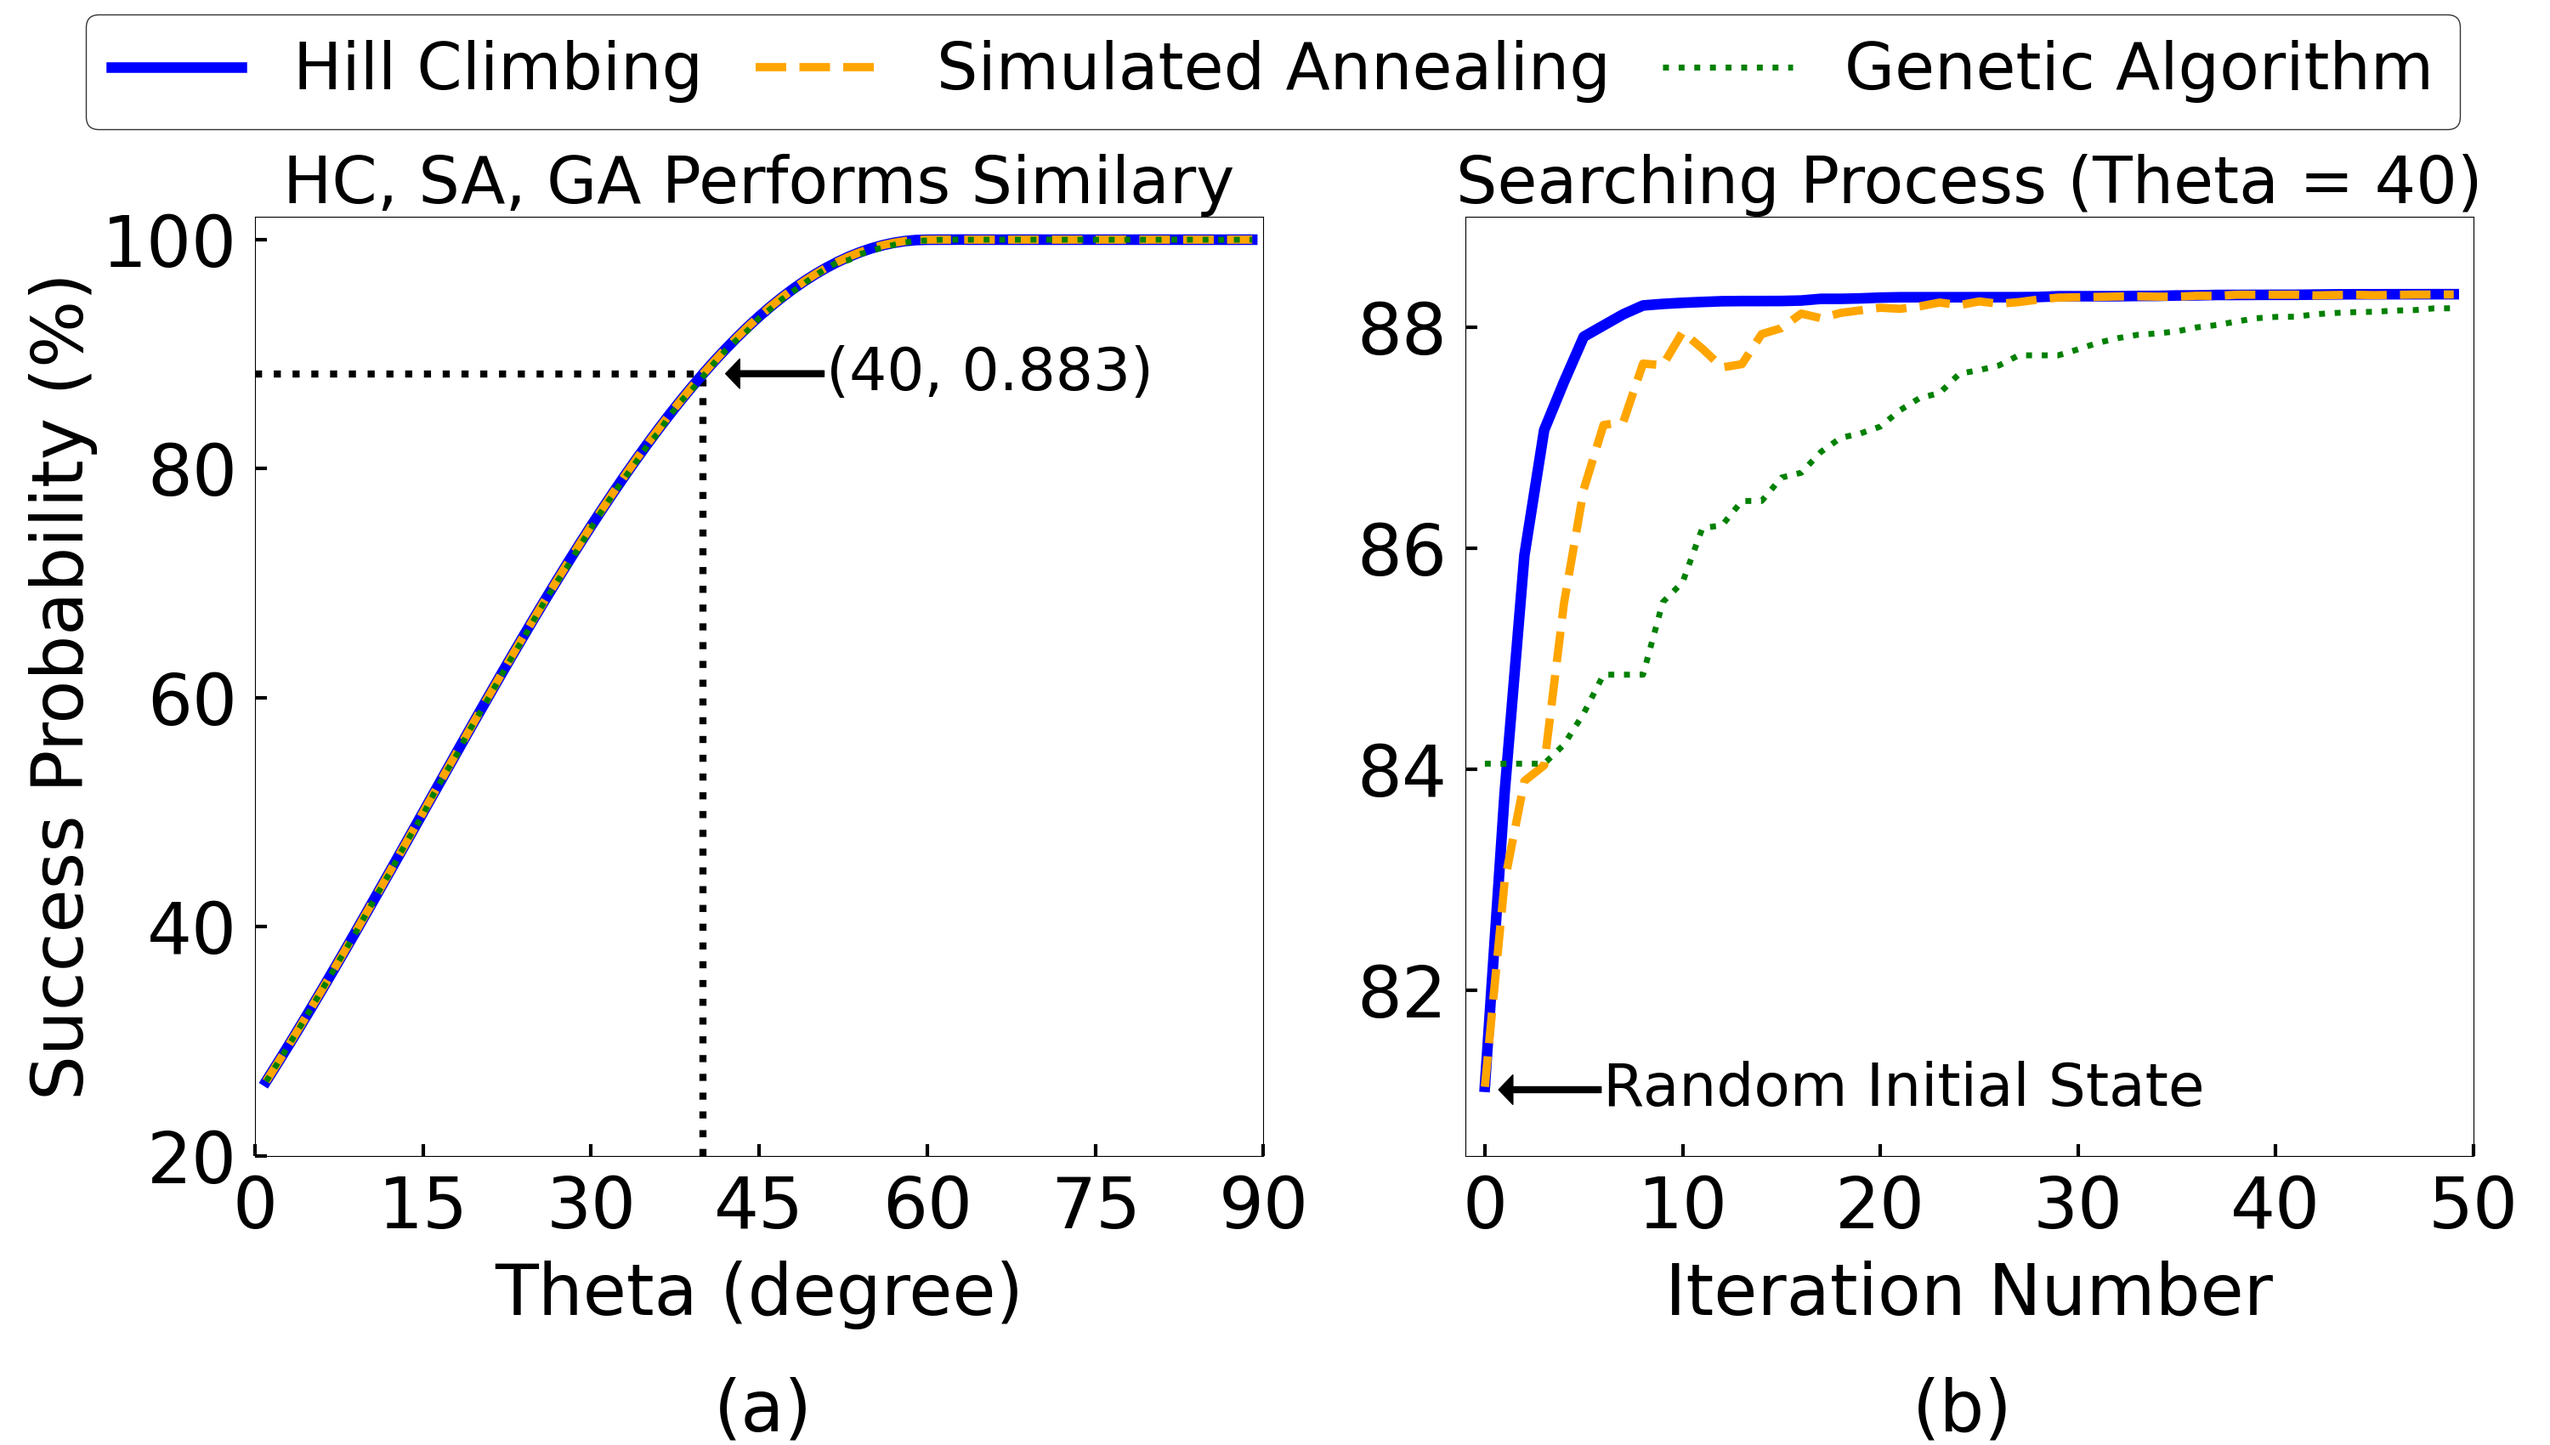
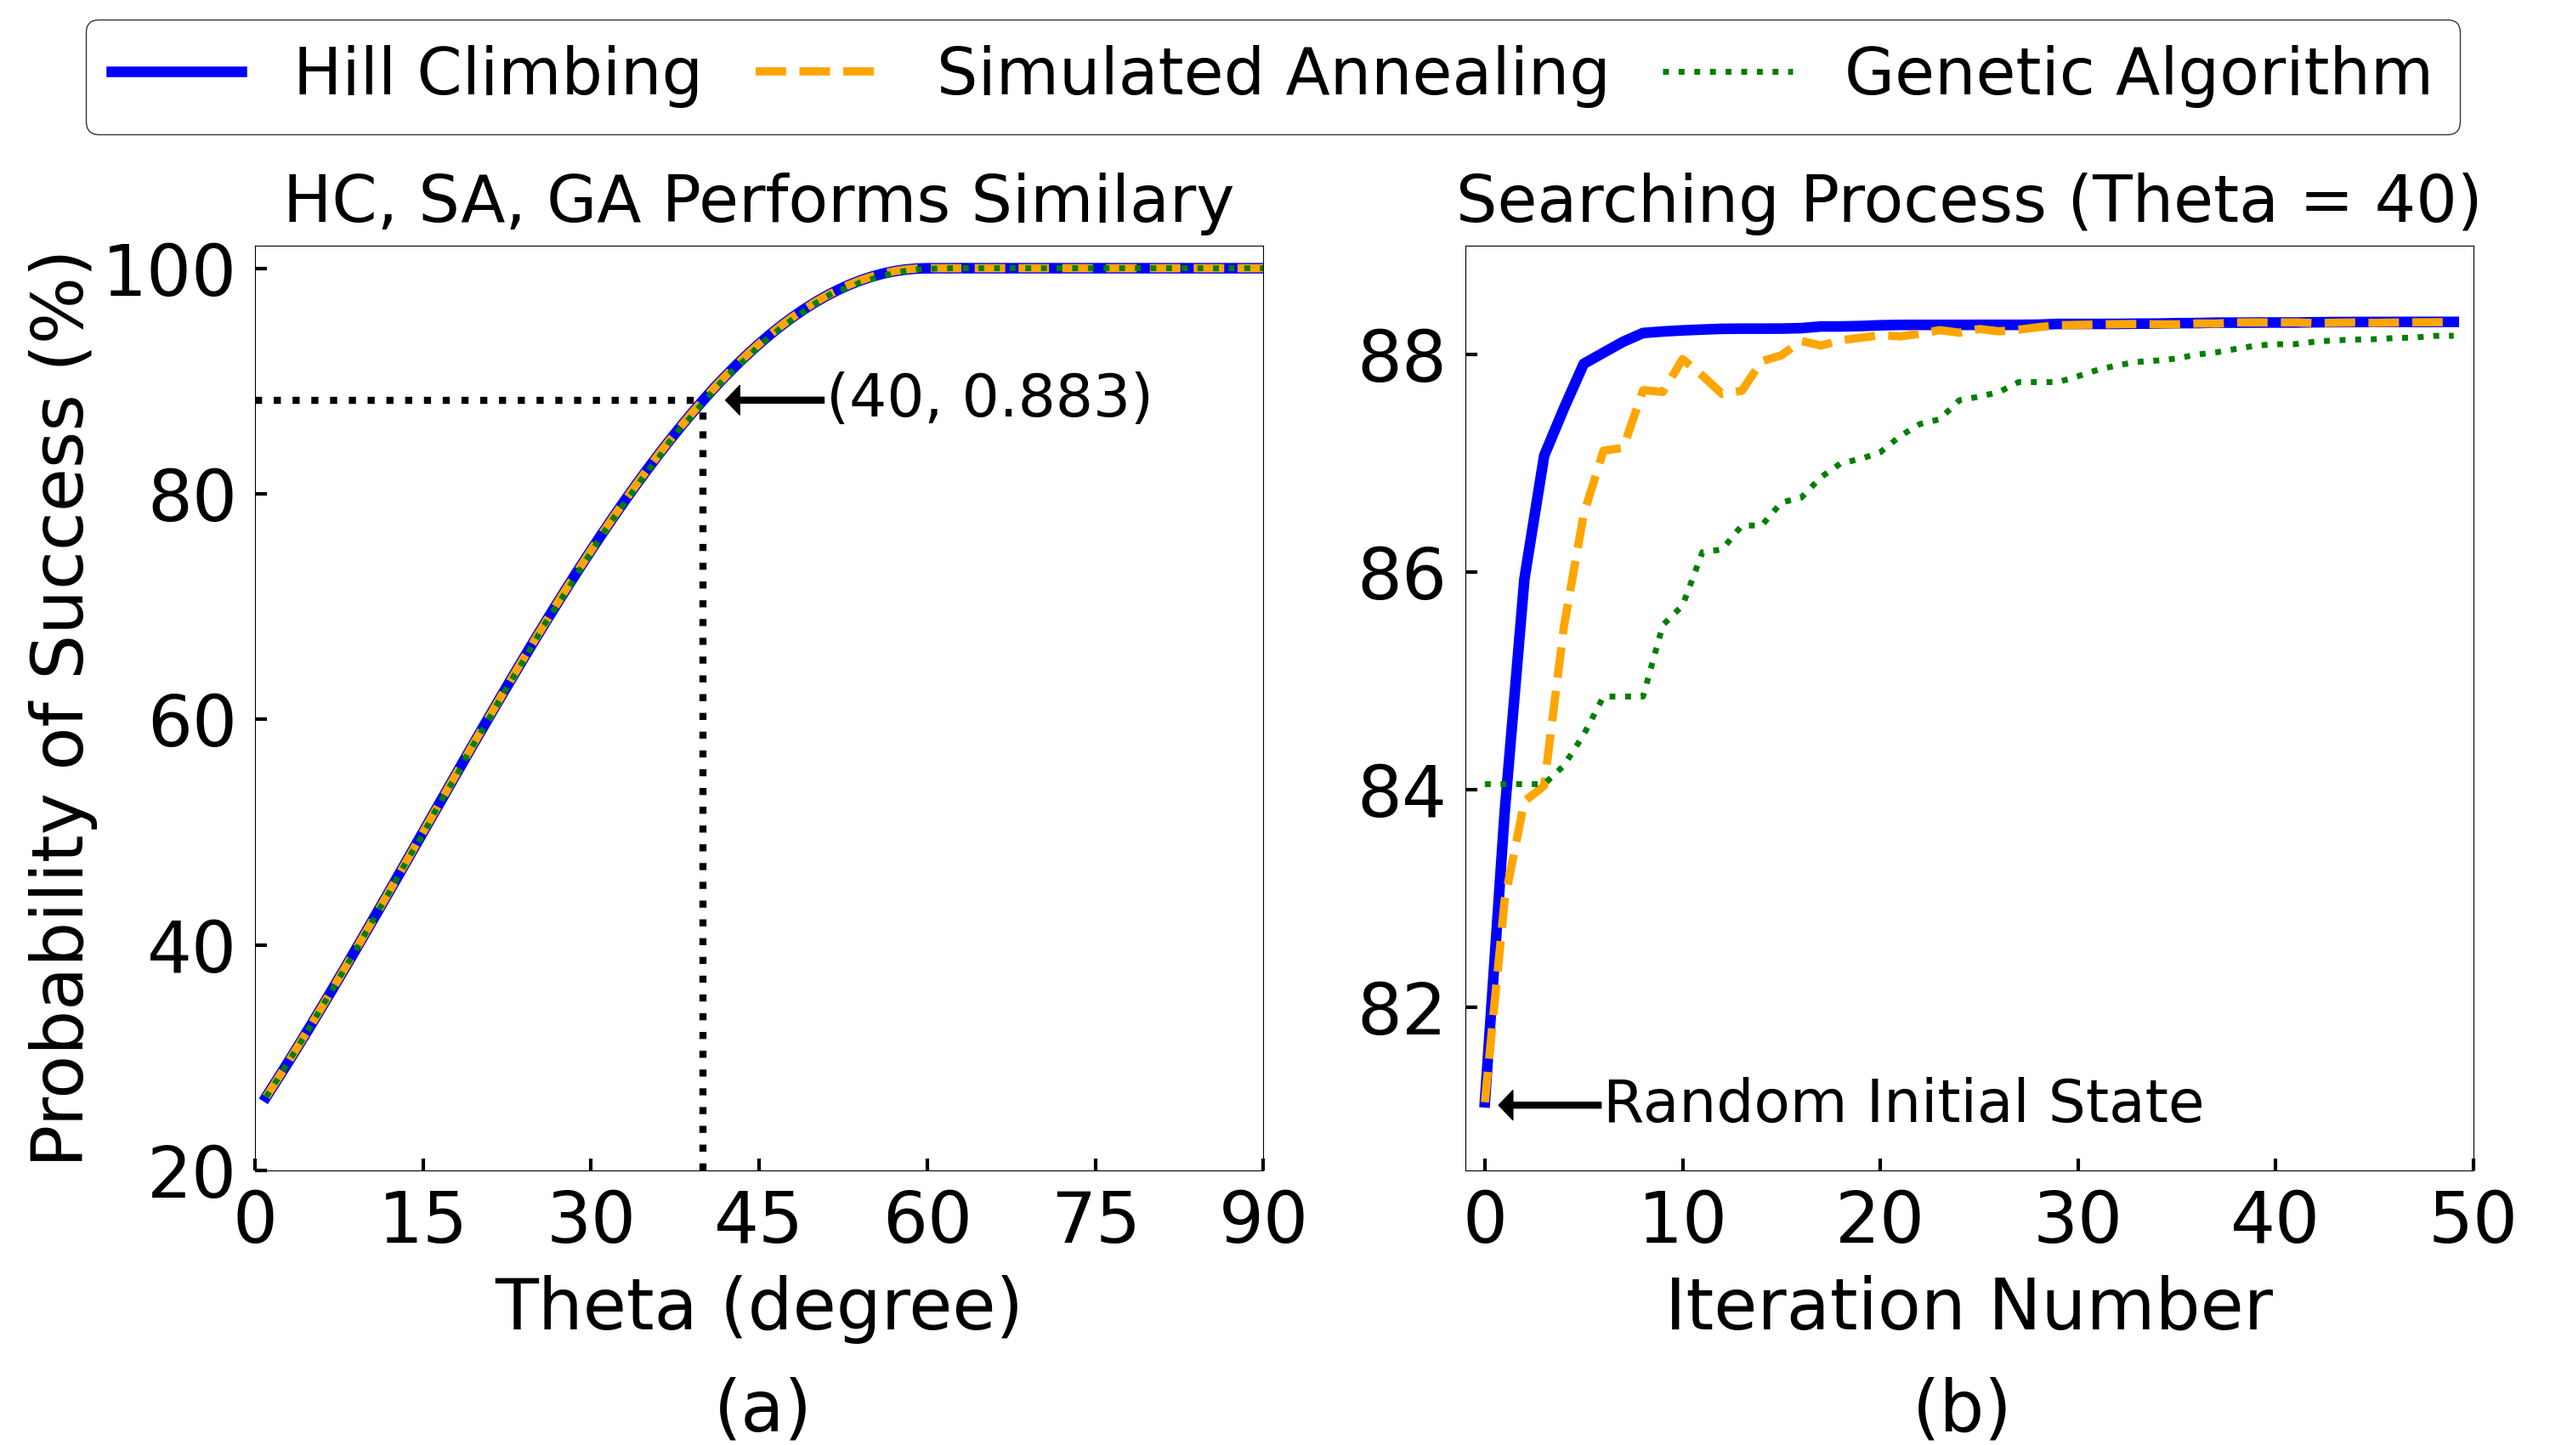
update all plots

diff --git a/plot2.py b/plot2.py
@@ -13,7 +13,7 @@ class Plot:
     plt.rcParams['lines.linewidth'] = 6
 
     _METHOD = ['Hill climbing', 'Simulated annealing', 'Genetic algorithm', 'Theorem']
-    _LABEL  = ['Hill Climbing', 'Simulated Annealing', 'Genetic Algorithm', 'Conjecture + Corollary']
+    _LABEL  = ['Hill Climbing', 'Simulated Annealing', 'Genetic Algorithm', '$Conjecture$ 1 + $Corollary$ 1']
     METHOD  = dict(zip(_METHOD, _LABEL))
 
     _METHOD = ['Hill climbing', 'Simulated annealing', 'Genetic algorithm', 'Theorem']
@@ -67,8 +67,8 @@ class Plot:
         ax.set_xlim([0, 180])
         ax.set_ylim([0.2, 1.02])
         ax.set_xlabel('Theta (degrees)', labelpad=15)
-        ax.set_ylabel('Success Probability (%)')
-        ax.set_title('Empirical Validation of Theorem 1 & 2 By Hill Climbing', pad=30, fontsize=65)
+        ax.set_ylabel('Probability of Success (%)')
+        ax.set_title('Empirical Validation of $Theorem$ 1 & 2 By Hill Climbing', pad=30, fontsize=65)
         ax.tick_params(axis='x', direction='in', length=10, width=3, pad=15)
         ax.tick_params(axis='y', direction='in', length=10, width=3, pad=15)
         fig.savefig(filename)
@@ -82,7 +82,7 @@ class Plot:
             for method, output in output_by_methods.items():
                 table1[method].append({myinput.unitary_theta: output.success})
         Y = defaultdict(list)
-        X = [i for i in range(1, 90)]
+        X = [i for i in range(1, 91)]
         for method, mylist in table1.items():
             y = defaultdict(list)
             for key_val in mylist: # each theta only one experiment
@@ -107,12 +107,12 @@ class Plot:
         arrowprops = dict(facecolor='black', width=5, headwidth=25)
         methods = ['Hill climbing', 'Simulated annealing', 'Genetic algorithm']
         fig, (ax0, ax1) = plt.subplots(1, 2, figsize=(30, 17))
-        fig.subplots_adjust(left=0.1, right=0.97, top=0.85, bottom=0.2)
+        fig.subplots_adjust(left=0.1, right=0.97, top=0.83, bottom=0.19)
         # ax0
         ax0.plot(X, Y[methods[0]], label=Plot.METHOD[methods[0]], linestyle=Plot.LINE_STYLE[methods[0]], color=Plot.COLOR[methods[0]], linewidth=9)
         ax0.plot(X, Y[methods[1]], label=Plot.METHOD[methods[1]], linestyle=Plot.LINE_STYLE[methods[1]], color=Plot.COLOR[methods[1]], linewidth=7)
         ax0.plot(X, Y[methods[2]], label=Plot.METHOD[methods[2]], linestyle=Plot.LINE_STYLE[methods[2]], color=Plot.COLOR[methods[2]], linewidth=5)
-        ax0.legend(ncol=3, loc='upper left', bbox_to_anchor=(-0.2, 1.2, 0.05, 0.05), fontsize=55, columnspacing=0.8, edgecolor='black')
+        ax0.legend(ncol=3, loc='upper left', bbox_to_anchor=(-0.2, 1.23, 0.05, 0.05), fontsize=55, columnspacing=0.8, edgecolor='black')
         xticks = [i for i in range(0, 91, 15)]
         ax0.set_xticks(xticks)
         ax0.set_xticklabels([f'{x}' for x in xticks])
@@ -124,13 +124,12 @@ class Plot:
         ax0.hlines(y=0.883, xmin=0,   xmax=40, linestyles='dotted', colors='black')
         ax0.tick_params(axis='x', direction='in', length=10, width=3, pad=15)
         ax0.tick_params(axis='y', direction='in', length=10, width=3, pad=15)
-        ax0.set_title('HC, SA, GA Performs Similary', fontsize=55)
+        ax0.set_title('HC, SA, GA Performs Similary', fontsize=55, pad=20)
         ax0.set_xlabel('Theta (degree)', labelpad=15)
         ax0.set_xlim([0, 90])
         ax0.set_ylim([0.2, 1.02])
-        ax0.set_ylabel('Success Probability (%)')
+        ax0.set_ylabel('Probability of Success (%)')
         ax0.annotate('(40, 0.883)', xy=(42, 0.883), xytext=(51, 0.883), arrowprops=arrowprops, fontsize=50, va='center')
-        # ax0.text(42.5, 0.864, '(40, 0.883)', fontsize=50)
         # ax1
         ax1.plot(Y2[methods[0]], linestyle=Plot.LINE_STYLE[methods[0]], color=Plot.COLOR[methods[0]], linewidth=9)
         ax1.plot(Y2[methods[1]], linestyle=Plot.LINE_STYLE[methods[1]], color=Plot.COLOR[methods[1]], linewidth=7)
@@ -143,7 +142,7 @@ class Plot:
         ax1.set_yticklabels([f'{int(y * 100)}' for y in yticks])
         ax1.tick_params(axis='x', direction='in', length=10, width=3, pad=15)
         ax1.tick_params(axis='y', direction='in', length=10, width=3, pad=15)
-        ax1.set_title('Searching Process (Theta = 40)', fontsize=55)
+        ax1.set_title('Searching Process (Theta = 40)', fontsize=55, pad=20)
         ax1.set_xlabel('Iteration Number', labelpad=15)
         ax1.set_xlim([-1, 50])
         ax1.set_ylim([0.805, 0.89])
@@ -155,14 +154,14 @@ class Plot:
 
     @staticmethod
     def lemma2(data, filename):
-        plt.rcParams['font.size'] = 40
-        fig, ((ax0, ax1), (ax2, ax3)) = plt.subplots(2, 2, figsize=(20, 16))
+        plt.rcParams['font.size'] = 45
+        fig, ((ax0, ax1), (ax2, ax3)) = plt.subplots(2, 2, figsize=(22, 15))
         fig.subplots_adjust(left=0.14, right=0.97, top=0.89, bottom=0.11, wspace=0.4, hspace=0.3)
         
         boxprops = dict(linewidth=3)
-        medianprops = dict(linewidth=2.5)
-        whiskerprops = dict(linewidth=2.5)
-        capprops = dict(linewidth=2.5)
+        medianprops = dict(linewidth=3)
+        whiskerprops = dict(linewidth=3)
+        capprops = dict(linewidth=3)
 
         n = 2
         print(data[f'n{n}.perm'][0], min(data[f'n{n}.avg']), max(data[f'n{n}.avg']))
@@ -210,18 +209,19 @@ class Plot:
         ax3.tick_params(axis='x', direction='in', length=8, width=2, pad=15)
         ax3.tick_params(axis='y', direction='in', length=8, width=2, pad=15)
         # fig
-        fig.supylabel('Error Probability (%)')
+        fig.supylabel('Probability of Error (%)')
         fig.supxlabel('Number of Sensors')
-        fig.suptitle('Lemma 2: The Averaged Initial States Have Lower Error')
+        fig.suptitle('$Lemma\ 2$: The Averaged Initial States Have Lower $PoE$')
         fig.savefig(filename)
 
 
     @staticmethod
     def lemma3(data, filename):
-        fig, ax = plt.subplots(1, 1, figsize=(24, 16))
-        fig.subplots_adjust(left=0.12, right=0.97, top=0.9, bottom=0.15)
+        fig, ax = plt.subplots(1, 1, figsize=(24, 14))
+        fig.subplots_adjust(left=0.12, right=0.98, top=0.9, bottom=0.16)
 
         X = np.linspace(0, 0.99, 100)
+        X = np.append(X, [0.995, 0.998, 0.999, 0.99999])
         n=2
         ax.plot(X, data[f'n{n}'], label='2 Sensors')
         n=3
@@ -230,22 +230,23 @@ class Plot:
         ax.plot(X, data[f'n{n}'], label='4 Sensors')
         n=5
         ax.plot(X, data[f'n{n}'], label='5 Sensors')
-        ax.legend(fontsize=50)
-        yticks = [0, 0.2, 0.4, 0.6, 0.8]
+        ax.legend(fontsize=50, edgecolor='black')
+        yticks = [0, 0.1, 0.2, 0.3, 0.4, 0.5, 0.6, 0.7, 0.8]
         ax.set_yticks(yticks)
         ax.set_yticklabels([f'{int(y * 100)}' for y in yticks])
         xticks = [0, 0.2, 0.4, 0.6, 0.8, 1]
+        xticks = xticks[::-1]
         ax.set_xticks(xticks)
         ax.set_xticklabels([str(x) for x in xticks])
-        ax.set_xlim([0, 1])
-        ax.set_ylim([-0.005, 0.8])
+        ax.set_xlim([0, 1.001])
+        ax.set_ylim([-0.001, 0.801])
         ax.tick_params(axis='x', direction='in', length=10, width=3, pad=15)
         ax.tick_params(axis='y', direction='in', length=10, width=3, pad=15)
-        ax.set_xlabel('Pairwise $\langle \phi_i \| \phi_j \\rangle = x$', labelpad=20)
-        ax.set_ylabel('Probability of Error (%)', labelpad=20)
-        ax.set_title('Validating Lemma 3', pad = 20)
+        ax.set_xlabel('$x$ (such that $\\forall i \\neq j$: $\langle \phi_i \| \phi_j \\rangle = x$)', labelpad=20)
+        ax.set_ylabel('Probability of Error (%)', labelpad=30)
+        ax.set_title('$Lemma\ 3$: $PoE$ Decrease with the Decrease in $x$', pad=20, fontsize=60)
+        ax.invert_xaxis()
         fig.savefig(filename)
-
 
 
     @staticmethod
@@ -290,7 +291,7 @@ class Plot:
         
         methods = ['Hill climbing', 'Theorem']
         fig, (ax0, ax1) = plt.subplots(1, 2, figsize=(30, 17))
-        fig.subplots_adjust(left=0.1, right=0.97, top=0.85, bottom=0.2)
+        fig.subplots_adjust(left=0.1, right=0.97, top=0.83, bottom=0.19)
         # ax0
         ax0.plot(X, Y3[methods[0]], label=Plot.METHOD[methods[0]], linestyle=Plot.LINE_STYLE[methods[0]], color=Plot.COLOR[methods[0]], linewidth=9)
         ax0.plot(X, Y3[methods[1]], label=Plot.METHOD[methods[1]], linestyle=Plot.LINE_STYLE[methods[1]], color=Plot.COLOR[methods[1]], linewidth=7)
@@ -305,10 +306,10 @@ class Plot:
         ax0.vlines(x=60, ymin=0.2, ymax=1, linestyles='dotted', colors='black', )
         ax0.tick_params(axis='x', direction='in', length=10, width=3, pad=15)
         ax0.tick_params(axis='y', direction='in', length=10, width=3, pad=15)
-        ax0.set_title('3 Sensors', fontsize=60)
-        ax0.legend(ncol=2, loc='upper left', bbox_to_anchor=(0.15, 1.2, 0.05, 0.05), fontsize=55, handlelength=3.5, edgecolor='black')
+        ax0.set_title('3 Sensors', fontsize=60, pad=20)
+        ax0.legend(ncol=2, loc='upper left', bbox_to_anchor=(0.08, 1.23, 0.05, 0.05), fontsize=55, handlelength=3.5, edgecolor='black')
         ax0.set_xlabel('Theta (degree)', labelpad=15)
-        ax0.set_ylabel('Success Probability (%)')
+        ax0.set_ylabel('Probability of Success (%)', fontsize=60)
         # ax1
         ax1.plot(X, Y5[methods[0]], label=Plot.METHOD[methods[0]], linestyle=Plot.LINE_STYLE[methods[0]], color=Plot.COLOR[methods[0]], linewidth=9)
         ax1.plot(X, Y5[methods[1]], label=Plot.METHOD[methods[1]], linestyle=Plot.LINE_STYLE[methods[1]], color=Plot.COLOR[methods[1]], linewidth=7)
@@ -323,7 +324,7 @@ class Plot:
         ax1.vlines(x=65.9, ymin=0.2, ymax=1, linestyles='dotted', colors='black', )
         ax1.tick_params(axis='x', direction='in', length=10, width=3, pad=15)
         ax1.tick_params(axis='y', direction='in', length=10, width=3, pad=15)
-        ax1.set_title('5 Sensors', fontsize=60)
+        ax1.set_title('5 Sensors', fontsize=60, pad=20)
         ax1.set_xlabel('Theta (degree)', labelpad=15)
         plt.figtext(0.28, 0.01, '(a)')
         plt.figtext(0.75, 0.01, '(b)')
@@ -406,8 +407,8 @@ class Plot:
             Y9[method] = y2
         
         # plotting
-        fig, ax = plt.subplots(1, 1, figsize=(24, 16))
-        fig.subplots_adjust(left=0.12, right=0.97, top=0.9, bottom=0.14)
+        fig, ax = plt.subplots(1, 1, figsize=(24, 14))
+        fig.subplots_adjust(left=0.12, right=0.97, top=0.9, bottom=0.16)
         method = 'Theorem'
         ax.plot(X, Y6[method], label='6 Sensors')
         ax.plot(X, Y7[method], label='7 Sensors')
@@ -428,9 +429,10 @@ class Plot:
         ax.tick_params(axis='x', direction='in', length=10, width=3, pad=15)
         ax.tick_params(axis='y', direction='in', length=10, width=3, pad=15)
         ax.set_xlabel('Theta (degree)', labelpad=20)
-        ax.set_ylabel('Success Probability (%)')
-        ax.set_title('The Performance of Conjecture and Corollary', fontsize=60, pad=40)
+        ax.set_ylabel('Probability of Success (%)')
+        ax.set_title('The Performance of $Conjecture\ 1$ and $Corollary\ 1$', fontsize=60, pad=30)
         fig.savefig(filename)
+
 
 def vary_theta():
     logs = ['result2/12.22.2022/varying_theta_2sensors', 'result2/12.22.2022/varying_theta_3sensors', \
@@ -473,11 +475,11 @@ def lemma3():
 
 
 def conjecture():
-    # logs = ['result2/12.31.2022/conjecture_3sensor', 'result2/12.31.2022/conjecture_5sensor',
-    #         'result2/12.22.2022/varying_theta_3sensors', 'result2/12.22.2022/varying_theta_5sensors']
-    # data = Logger.read_log(logs)
-    # filename = 'result2/12.31.2022/conjecture_1.png'
-    # Plot.conjecture_1(data, filename)
+    logs = ['result2/12.31.2022/conjecture_3sensor', 'result2/12.31.2022/conjecture_5sensor',
+            'result2/12.22.2022/varying_theta_3sensors', 'result2/12.22.2022/varying_theta_5sensors']
+    data = Logger.read_log(logs)
+    filename = 'result2/12.31.2022/conjecture_1.png'
+    Plot.conjecture_1(data, filename)
 
     logs = ['result2/12.31.2022/conjecture_6sensor', 'result2/12.31.2022/conjecture_7sensor',
             'result2/12.31.2022/conjecture_8sensor', 'result2/12.31.2022/conjecture_9sensor']
@@ -488,8 +490,8 @@ def conjecture():
 
 if __name__ == '__main__':
     # vary_theta()
-    # methods_similar()
+    methods_similar()
     # lemma2()
-    lemma3()
+    # lemma3()
     # conjecture()
     

diff --git a/test_average.py b/test_average.py
@@ -587,6 +587,7 @@ def lemma3(num_sensor: int) -> list:
     povm = Povm()
     priors = [1/num_sensor] * num_sensor
     X = np.linspace(0, 0.99, 100)
+    X = np.append(X, [0.995, 0.998, 0.999, 0.99999])
     y = []
     for x in X:
         qstates = generate_pyramid_states(num_sensor, x)
